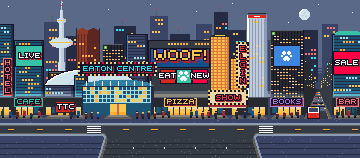
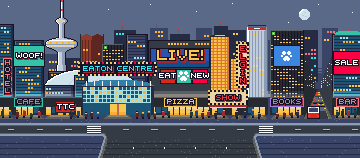
Make the CN Tower the tallest thing on Yonge Street's skyline, from the band's top row: a bold outlined needle with its red-lit antenna, a SkyPod and a saucer pod in lit window rings, every other tower below its SkyPod; and swap the big screen to LIVE! and the left one to WOOF!

diff --git a/art/tools/backdrops.py b/art/tools/backdrops.py
@@ -1730,35 +1730,53 @@ def beaches():
 
 
 def cn_tower(cv, cx, base, top):
-    """The tower far off at night, from its antenna's tip on row top to row base, in the far landmarks'
-    haze shaded lgrey, in its real proportions: the antenna the top sixth, a red beacon at its tip and
-    another halfway down; the SkyPod with its gold windows; a 5-column shaft on to the main pod, 23 wide
-    with a gold window band, two thirds of the way up; then the long shaft tapering out to 13 columns at the foot."""
+    """The CN Tower at night, the tallest thing on the skyline, from its antenna's tip on row top down to row
+    base, centred on column cx, in an ink outline, lgrey lit white on its left and grey in shade on its right,
+    in its real proportions: the antenna the top sixth, 2 columns wide, with a red light at its tip and another
+    halfway down; the SkyPod with a ring of lit windows; a 5-column shaft on to the main pod, about two thirds
+    of the way up, a saucer 31 wide under a white cap with two rings of lit 2x2 windows, gold over amber and
+    cream, its underside in shade; then the shaft tapering out to 17 columns at the foot."""
     h = base - top
-
-    def row(y, half):
-        cv.fill(cx - half, y, 2 * half + 1, 1, "haze")
-        cv.fill(cx + max(1, half - 2), y, min(3, half), 1, "lgrey")
-
-    mast, sky_pod, pod = top + round(h * 0.09), top + round(h * 0.16), top + round(h * 0.33)
-    cv.fill(cx, top, 1, mast - top, "lgrey")
-    for y in range(mast, sky_pod):
-        row(y, 1)
-    for k, half in enumerate((2, 4, 4, 4, 3)):
-        row(sky_pod + k, half)
-    cv.fill(cx - 3, sky_pod + 2, 7, 1, "gold")
-    for y in range(sky_pod + 5, pod):
-        row(y, 2)
-    for k, half in enumerate((6, 9, 10, 11, 11, 11, 10, 9, 7, 5)):
-        row(pod + k, half)
-    cv.fill(cx - 11, pod + 4, 23, 1, "gold")
-    for x in range(cx - 10, cx + 11, 3):
-        cv.fill(x, pod + 4, 1, 1, "amber")
-    for y in range(pod + 10, base):
-        row(y, 2 + (y - pod - 10) * 5 // (base - pod - 10))
-        cv.fill(cx, y, 1, 1, "lgrey")
-    cv.fill(cx, top, 1, 1, "red")
-    cv.fill(cx, mast - (mast - top) // 2, 1, 1, "red")
+    sky_pod, pod = top + round(h * 0.16), top + round(h * 0.33)
+    rows = {}
+    for y in range(top, sky_pod):
+        rows[y] = (0, 1)
+    for k, half in enumerate((2, 4, 5, 5, 4, 3)):
+        rows[sky_pod + k] = (half, half)
+    for y in range(sky_pod + 6, pod):
+        rows[y] = (2, 2)
+    saucer = (5, 9, 12, 14, 15, 15, 15, 15, 14, 12, 9, 7, 5, 4)
+    for k, half in enumerate(saucer):
+        rows[pod + k] = (half, half)
+    low = pod + len(saucer)
+    for y in range(low, base):
+        half = 3 + (y - low) * 5 // max(1, base - low)
+        rows[y] = (half, half)
+    inside = {(x, y) for y, (left, right) in rows.items() for x in range(cx - left, cx + right + 1)}
+    for x, y in inside:
+        for dx, dy in ((1, 0), (-1, 0), (0, 1), (0, -1)):
+            if (x + dx, y + dy) not in inside:
+                cv.fill(x + dx, y + dy, 1, 1, "ink")
+    for y, (left, right) in rows.items():
+        cv.fill(cx - left, y, left + right + 1, 1, "lgrey")
+        cv.fill(cx - left, y, 1, 1, "white")
+        shade = min(3, right) if right > 1 else 1
+        cv.fill(cx + right - shade + 1, y, shade, 1, "grey")
+    # the antenna's lights, the SkyPod's window ring
+    cv.fill(cx, top, 2, 2, "red")
+    cv.fill(cx, top + (sky_pod - top) // 2, 2, 2, "red")
+    for k, x in enumerate(range(cx - 4, cx + 5, 3)):
+        cv.fill(x, sky_pod + 2, 2, 2, ("cream", "gold")[k % 2])
+    # the main pod: a white cap, a ring of gold and amber windows at its widest, a ring of cream below it,
+    # the underside in shade
+    cv.fill(cx - 11, pod + 2, 23, 1, "white")
+    for k, x in enumerate(range(cx - 14, cx + 14, 3)):
+        cv.fill(x, pod + 4, 2, 2, ("gold", "amber")[k % 2])
+    cv.fill(cx - 15, pod + 6, 31, 1, "grey")
+    for x in range(cx - 13, cx + 13, 3):
+        cv.fill(x, pod + 7, 2, 2, "cream")
+    for k, half in enumerate(saucer[9:]):
+        cv.fill(cx - half, pod + 9 + k, 2 * half + 1, 1, "grey")
 
 
 def mast(cv, cx, top, h):
@@ -1932,7 +1950,7 @@ def word_art(text, col):
 
 
 def dundas_screens(cv, x, w, top):
-    """The Yonge-Dundas tower: shale with runs of lit windows over its wall of screens, the giant WOOF!
+    """The Yonge-Dundas tower: shale with runs of lit windows over its wall of screens, the giant LIVE!
     screen at 2x on cobalt over blue and, under it, three ads (EAT on red, a paw print on turquoise,
     NEW on hot pink) starting clear of the EATON CENTRE sign at column 161."""
     cv.fill(x, top, w, BASE - top, "shale")
@@ -1941,7 +1959,7 @@ def dundas_screens(cv, x, w, top):
     sx, sw, sy, sh = x + 3, w - 6, top + 9, 18
     screen(cv, sx, sy, sw, sh, "cobalt")
     cv.fill(sx, sy + sh - 6, sw, 6, "blue")
-    word(cv, "WOOF!", x + w / 2, sy, "gold", 2)
+    word(cv, "LIVE!", x + w / 2, sy, "gold", 2)
     ay, ax = sy + sh + 3, max(sx, 161)
     aw = (sx + sw - ax - 4) // 3
     for k, (back, art) in enumerate((("ttc", word_art("EAT", "white")), ("turquoise", paw_art),
@@ -2202,17 +2220,19 @@ def yonge():
     # downtown is a wall of towers filling most of the sky, the only sky left in the gaps and over the
     # top: unlike the other backdrops it rises above row 45, under the debuff bars' and the message
     # strip's opaque plates. Far back, dark towers in navy and dslate with a third of their windows lit
-    skyline(cv, ((-2, 16, 30, "navy"), (44, 20, 22, "dslate"), (66, 18, 36, "navy"), (114, 22, 26, "navy"),
-                 (150, 18, 16, "dslate"), (170, 20, 34, "navy"), (196, 16, 24, "dslate"), (214, 14, 12, "navy"),
+    # Every tower tops out below the CN Tower's SkyPod, and the towers either side of its pod stay low, so
+    # it stands clear against the sky
+    skyline(cv, ((-2, 16, 30, "navy"), (44, 20, 54, "dslate"), (66, 18, 58, "navy"), (114, 22, 30, "navy"),
+                 (150, 18, 28, "dslate"), (170, 20, 34, "navy"), (196, 16, 28, "dslate"), (214, 14, 26, "navy"),
                  (228, 18, 30, "navy"),
-                 (268, 16, 40, "dslate"), (300, 18, 30, "navy"), (322, 16, 24, "dslate"), (342, 20, 38, "navy")))
-    for cx, top, h in ((52, 22, 9), (122, 26, 7), (156, 16, 8), (178, 34, 6), (220, 12, 6), (348, 38, 8)):
+                 (268, 16, 40, "dslate"), (300, 18, 30, "navy"), (322, 16, 28, "dslate"), (342, 20, 38, "navy")))
+    for cx, top, h in ((122, 30, 6), (156, 28, 5), (178, 34, 6), (220, 26, 4), (348, 38, 8)):
         mast(cv, cx, top - h, h)
-    # behind the SkyDome, lit towers and, far off in a lighter haze, the CN Tower, the tallest thing on
-    # the skyline, its slender shaft rising from behind the dome's left flank; a low dark block between
-    # the shaft and the dome keeps the two light shapes apart; then the SkyDome, large, in front
+    # behind the SkyDome, lit towers and the CN Tower, the tallest thing on the skyline, from the band's
+    # top row down behind the dome's left flank; a low dark block between the shaft and the dome keeps the
+    # two light shapes apart; then the SkyDome, large, in front
     glass_tower(cv, 14, 30, 40, 7)
-    scotia(cv, 76, 24, 28)
+    scotia(cv, 80, 24, 34)
     dominion(cv, 102, 22, 44, 5)
     glass_tower(cv, 126, 22, 34, 8, "dslate")
     cn_tower(cv, 61, BASE, 0)
@@ -2233,7 +2253,7 @@ def yonge():
     dundas_screens(cv, CX - 32, 64, 40)
     royal_bank(cv, 210, 20, 36)
     royal_bank(cv, 230, 14, 58)
-    first_canadian(cv, 246, 22, 14)
+    first_canadian(cv, 246, 22, 26)
     dominion(cv, 270, 34, 30, 1)
     glass_tower(cv, 332, 32, 34, 3)
     crown(cv, 332, 32, 34, "turquoise", "turquoise", steps=3)
@@ -2248,7 +2268,7 @@ def yonge():
             fronts.append((x + 1, x + w - 1))
     eaton_centre(cv, 82, 72, BASE - 36)
     blade(cv, 3, 58, "HOTEL", "pink")
-    screen(cv, 16, 46, 26, 20, "turquoise", word_art("LIVE", "white"))
+    screen(cv, 14, 46, 30, 20, "turquoise", word_art("WOOF!", "white"))
     screen(cv, 274, 46, 26, 20, "azure", paw_art)
     screen(cv, 334, 52, 26, 22, "hot", word_art("SALE", "white"))
     elgin(cv, 236, BASE - 73, BASE - 25)

diff --git a/art/style-guide.md b/art/style-guide.md
@@ -323,7 +323,8 @@ Backdrops are 360×158 on screen rows 48 to 205 (`art/tools/backdrops.py`); band
 
 - Above the far side's front row the scenery goes back in depth, not taller. The debuff bars and the message strip lie over the band's top rows, so the sky above row 45 is one flat colour with no clouds, stars or scenery. Yonge Street is the exception: its skyline rises above row 45, under the bars' and the strip's opaque plates.
 - Darkness varies: The Beaches bright and open, the Distillery District at golden hour, High Park under a clear blue sky, Cabbagetown at dusk, Yonge Street an evening downtown and Kensington Market darkest, a Pedestrian Sunday at twilight.
-- Yonge Street's night is lit in big, clean shapes, never speckle: windows in 2×2 blocks lit in runs along each floor, the 2× WOOF! screen and its ad screens, 2px marquee bulbs (the EATON CENTRE sign, the ELGIN blade, the SHOW marquee), the street's glow a ramp step up the towers' feet, and each lit shopfront's light on the far sidewalk, with crowds standing in it.
+- The CN Tower is the tallest thing on Yonge Street's skyline, its antenna's red light on the band's top row: every other tower and mast tops out below its SkyPod, and those either side of its pod stay low so the pod and its lit window rings stand against the sky.
+- Yonge Street's night is lit in big, clean shapes, never speckle: windows in 2×2 blocks lit in runs along each floor, the 2× LIVE! screen and its ad screens, a WOOF! screen on the glass tower at the left, 2px marquee bulbs (the EATON CENTRE sign, the ELGIN blade, the SHOW marquee), the street's glow a ramp step up the towers' feet, and each lit shopfront's light on the far sidewalk, with crowds standing in it.
 - Houses on the far side are slim, about as tall as they are wide, under a gable that rises about a row for each column it narrows, past 2px eaves. Light comes from the top left: the roof's left edge a ramp step lighter, the wall's right 3 columns a step darker. Trees, hedges and side yards fill the gaps, and the end houses run off the band's edges so the street carries on. Houses further back are smaller and show between the near roofs.
 - Kensington Market's laneway murals at the band's edges are painted a ramp step darker than `MURAL`, so they sit behind the shopfronts.
 - The approach rows carry no static scenery. The near corners and the stub's verges show only their ground (lawn, paving, sidewalk and curb, as the verge paints them): the game's road begins there and its items spawn over them, so no perch, ornament, tree, lamp, bench, sign or other prop stands there. Everything static stands at or beyond the cross street, and no static vehicle stands on it: the ambient traffic drives there, so a jam (Yonge Street's side street) stays beyond the far sidewalk.
